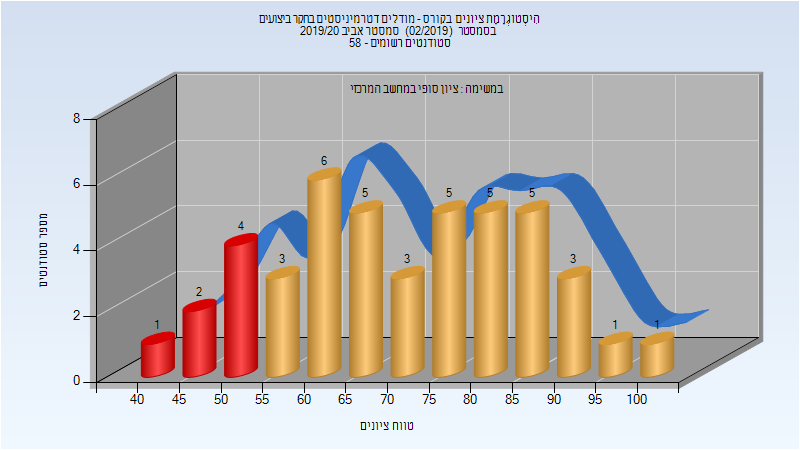
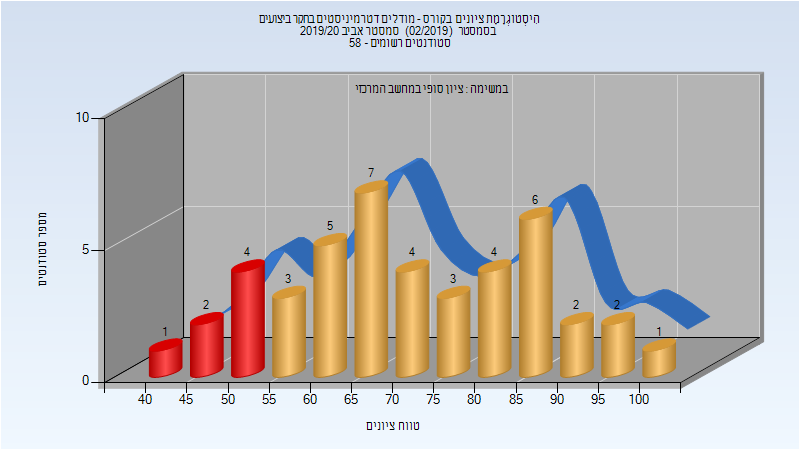
Deploy michael-maltsev/technion-histograms to github.com/michael-maltsev/technion-histograms.git:gh-pages

diff --git a/094313/index.html b/094313/index.html
@@ -972,8 +972,34 @@
 <td>84</td>
 <td>40</td>
 <td>100</td>
-<td>71.136</td>
+<td>71.159</td>
 <td>69.5</td>
+</tr>
+</tbody>
+</table>
+<h3>סופי מועד ב'</h3>
+<p><img src="201902/Final_B.png" alt="201902 Final_B" /></p>
+<table>
+<thead>
+<tr>
+<th>סטודנטים</th>
+<th>עברו/נכשלו</th>
+<th>אחוז עוברים</th>
+<th>ציון מינימלי</th>
+<th>ציון מקסימלי</th>
+<th>ממוצע</th>
+<th>חציון</th>
+</tr>
+</thead>
+<tbody>
+<tr>
+<td>23</td>
+<td>17/6</td>
+<td>74</td>
+<td>41</td>
+<td>88</td>
+<td>63.739</td>
+<td>62</td>
 </tr>
 </tbody>
 </table>
@@ -998,8 +1024,8 @@
 <td>84</td>
 <td>40</td>
 <td>100</td>
-<td>71.159</td>
-<td>70.5</td>
+<td>71.25</td>
+<td>69.5</td>
 </tr>
 </tbody>
 </table>

diff --git a/094210/index.html b/094210/index.html
@@ -444,6 +444,32 @@
 </tr>
 </tbody>
 </table>
+<h3>סופי מועד ב'</h3>
+<p><img src="201902/Final_B.png" alt="201902 Final_B" /></p>
+<table>
+<thead>
+<tr>
+<th>סטודנטים</th>
+<th>עברו/נכשלו</th>
+<th>אחוז עוברים</th>
+<th>ציון מינימלי</th>
+<th>ציון מקסימלי</th>
+<th>ממוצע</th>
+<th>חציון</th>
+</tr>
+</thead>
+<tbody>
+<tr>
+<td>62</td>
+<td>49/13</td>
+<td>79</td>
+<td>26</td>
+<td>100</td>
+<td>70.79</td>
+<td>74</td>
+</tr>
+</tbody>
+</table>
 <h3>סופי</h3>
 <p><img src="201902/Finals.png" alt="201902 Finals" /></p>
 <table>

diff --git a/094313/README.md b/094313/README.md
@@ -304,7 +304,15 @@
 
 | סטודנטים | עברו/נכשלו | אחוז עוברים | ציון מינימלי | ציון מקסימלי | ממוצע | חציון |
 | ---- | ---- | ---- | ---- | ---- | ---- | ---- |
-| 44 | 37/7 | 84 | 40 | 100 | 71.136 | 69.5 |
+| 44 | 37/7 | 84 | 40 | 100 | 71.159 | 69.5 |
+
+### סופי מועד ב'
+
+![201902 Final_B](201902/Final_B.png)
+
+| סטודנטים | עברו/נכשלו | אחוז עוברים | ציון מינימלי | ציון מקסימלי | ממוצע | חציון |
+| ---- | ---- | ---- | ---- | ---- | ---- | ---- |
+| 23 | 17/6 | 74 | 41 | 88 | 63.739 | 62 |
 
 ### סופי
 
@@ -312,5 +320,5 @@
 
 | סטודנטים | עברו/נכשלו | אחוז עוברים | ציון מינימלי | ציון מקסימלי | ממוצע | חציון |
 | ---- | ---- | ---- | ---- | ---- | ---- | ---- |
-| 44 | 37/7 | 84 | 40 | 100 | 71.159 | 70.5 |
+| 44 | 37/7 | 84 | 40 | 100 | 71.25 | 69.5 |
 

diff --git a/094210/README.md b/094210/README.md
@@ -135,6 +135,14 @@
 | ---- | ---- | ---- | ---- | ---- | ---- | ---- |
 | 202 | 181/21 | 90 | 36.65 | 100 | 73.401 | 72.7 |
 
+### סופי מועד ב'
+
+![201902 Final_B](201902/Final_B.png)
+
+| סטודנטים | עברו/נכשלו | אחוז עוברים | ציון מינימלי | ציון מקסימלי | ממוצע | חציון |
+| ---- | ---- | ---- | ---- | ---- | ---- | ---- |
+| 62 | 49/13 | 79 | 26 | 100 | 70.79 | 74 |
+
 ### סופי
 
 ![201902 Finals](201902/Finals.png)
